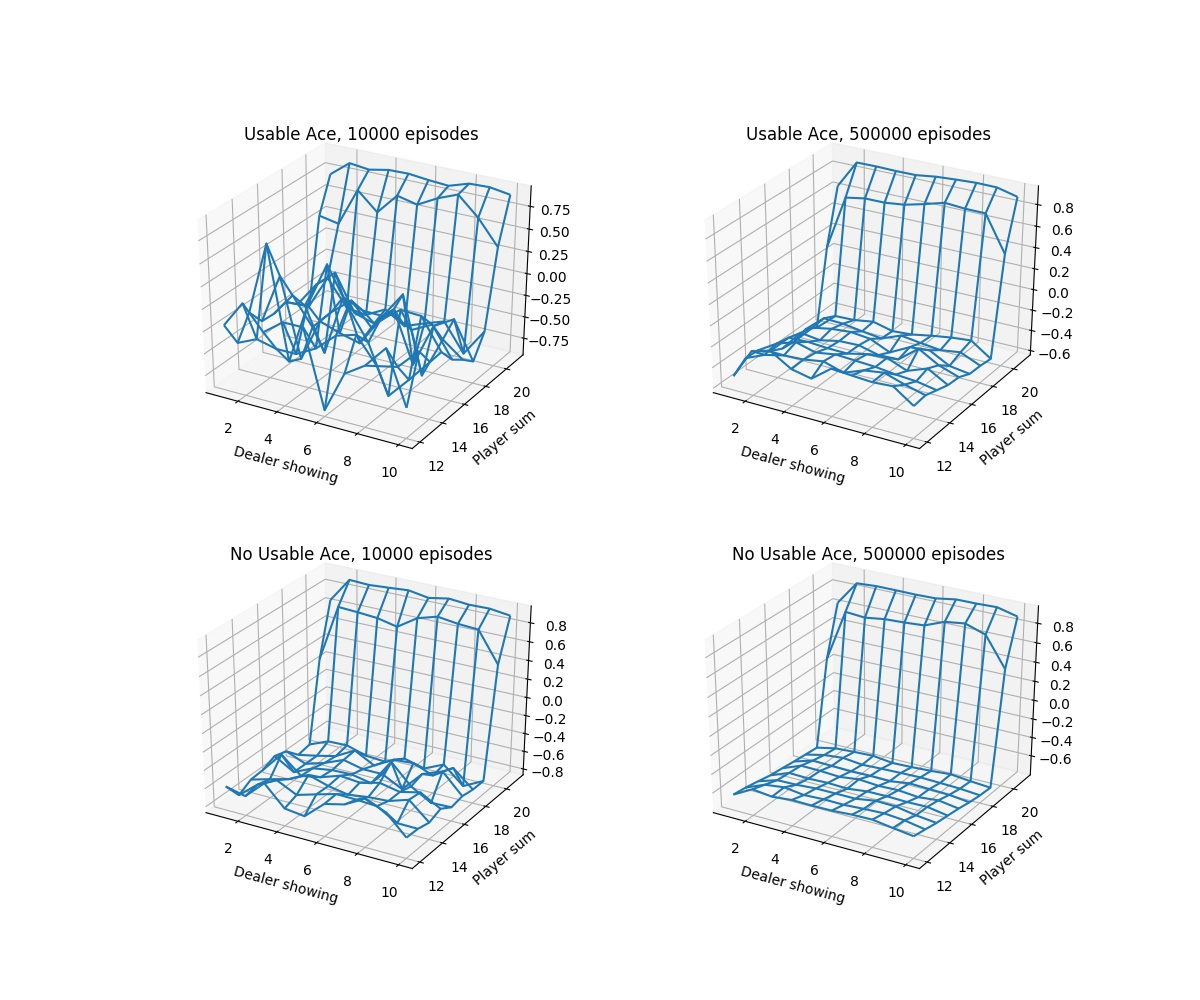
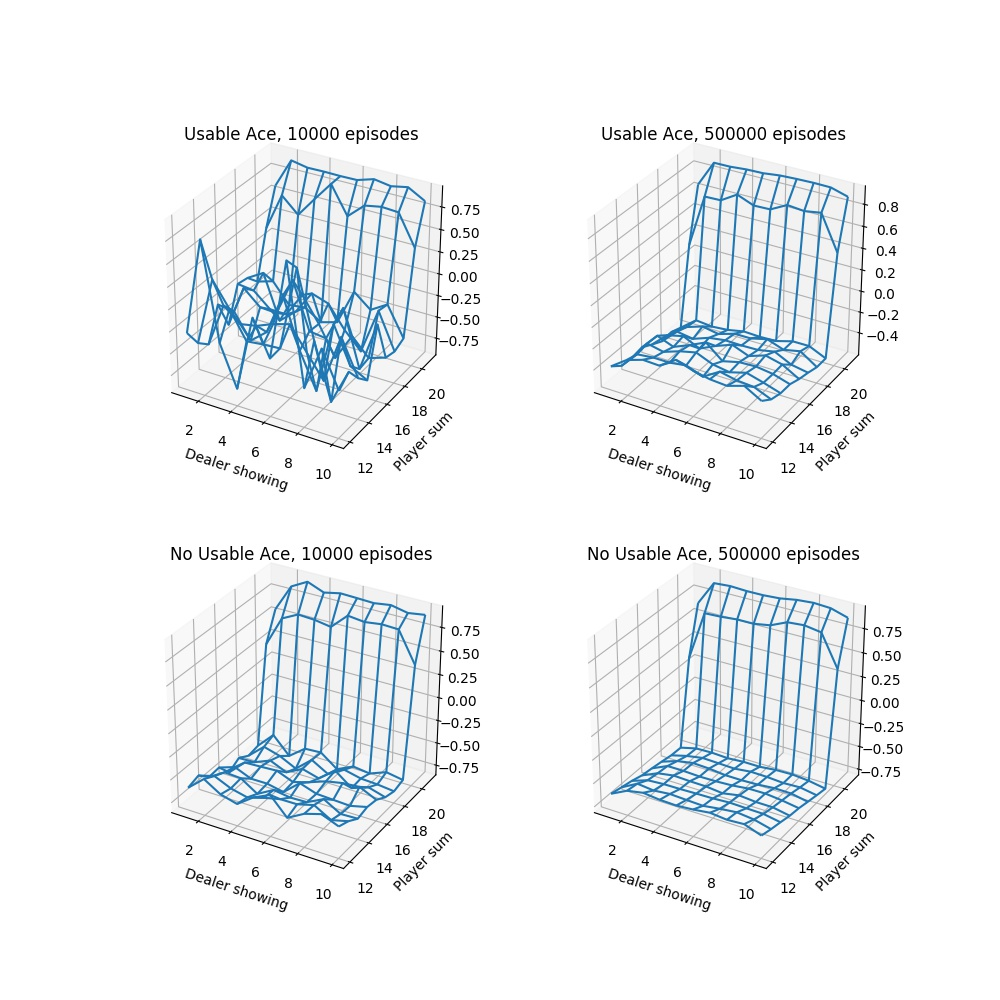
second commit

diff --git a/Chapter5/Figure5-2.py b/Chapter5/Figure5-2.py
@@ -3,6 +3,7 @@
 import numpy as np
 import matplotlib.pyplot as plt
 from mpl_toolkits.mplot3d import Axes3D
+import seaborn as sns
 
 class Blackjack(object):
     def __init__(self):
@@ -15,7 +16,7 @@ class Blackjack(object):
         self.policy_player[20:] = self.action_stop
         self.policy_dealer[17:] = self.action_stop
 
-    def target_policy_player(self, sum_player):
+    def target_policy_player(self, sum_player, usable_ace, dealer_card):
         return self.policy_player[sum_player]
 
     def behavior_policy_player(self):
@@ -59,7 +60,7 @@ class Blackjack(object):
         state = [sum_player, usable_ace_player, card1_dealer]  # initialize the state of game
         return state, card2_dealer
 
-    def generate_episode(self, initial_state=None, initial_action=None):
+    def generate_episode(self, policy_player, initial_state=None, initial_action=None):
         sum_dealer = 0  # sum of dealer's card
         trajectory_player = []  # the player's trajectory
         usable_ace_dealer = False  #type: bool #whether dealer count ace as 11 or not
@@ -89,7 +90,8 @@ class Blackjack(object):
                 action = initial_action
                 initial_action = None
             else:
-                action = self.policy_player[sum_player]   #get an action base on current sum of player's card
+                action = policy_player(sum_player, usable_ace_player, card1_dealer)
+                #get an action base on current sum of player's card
             trajectory_player.append([(sum_player, usable_ace_player, card1_dealer), action])
 
             if action == self.action_stop:
@@ -134,44 +136,61 @@ class Blackjack(object):
         else:
             return state, -1, trajectory_player
 
-    def first_visit_MC(self, episodes=10000):
-        state_usable_ace = np.zeros((10, 10))
-        state_usable_ace_count = np.ones(state_usable_ace.shape)
-        state_no_usable_ace = np.zeros((10, 10))
-        state_no_usable_ace_count = np.ones(state_no_usable_ace.shape)
+    def exploring_start_MC(self, episodes=10000):
+        state_action_value = np.zeros((10, 2, 10, 2))   # (playerSum, usable, dealerCard, action)
+        state_action_pair_count = np.ones(state_action_value.shape)
+
+        def greedy_policy(sum_player, usable_ace, dealer_card):
+            sum_player -= 12
+            usable_ace = int(usable_ace)
+            dealer_card -= 1
+            values = state_action_value[sum_player, usable_ace, dealer_card, :] /\
+                    state_action_pair_count[sum_player, usable_ace, dealer_card]
+            return np.random.choice([act for act, value in enumerate(values) if value == np.max(values)])
 
         for ite in np.arange(episodes):
-            _, reward, trajectory = self.generate_episode()
-            for (sum_player, usable_ace, dealer_showing), _ in trajectory:
+            #randomly select initialized state and action for each episode
+            initial_state = [np.random.choice(range(12, 22)), bool(np.random.choice([0, 1])),
+                             np.random.choice(range(1, 11))]
+            initial_action = np.random.choice([self.action_hit, self.action_stop])
+            policy_player = greedy_policy if ite else self.target_policy_player
+            _, reward, trajectory = self.generate_episode(policy_player, initial_state, initial_action)
+            for (sum_player, usable_ace, dealer_showing), action in trajectory:
                 sum_player -= 12
+                usable_ace = int(usable_ace)
                 dealer_showing -= 1
-                if usable_ace:
-                    state_usable_ace[sum_player, dealer_showing] += reward
-                    state_usable_ace_count[sum_player, dealer_showing] += 1
-                else:
-                    state_no_usable_ace[sum_player, dealer_showing] += reward
-                    state_no_usable_ace_count[sum_player, dealer_showing] += 1
-        return state_usable_ace/state_usable_ace_count, state_no_usable_ace/state_no_usable_ace_count
+                #update the values and pair counts
+                state_action_value[sum_player, usable_ace, dealer_showing, action] += reward
+                state_action_pair_count[sum_player, usable_ace, dealer_showing, action] += 1
+        return state_action_value/state_action_pair_count
 
 
 def draw_image(states_mat, lables):
 
-    print("Starting drawing......")
     x_size, y_size = states_mat[0].shape
     x_axis = np.arange(1, x_size + 1)
     y_axis = np.arange(12, y_size + 12)
     x_axis, y_axis = np.meshgrid(x_axis, y_axis)
     nums = np.arange(len(lables))
 
-    fig = plt.figure(figsize=(10, 10))
+    print("Starting drawing......")
+    fig = plt.figure(figsize=(14, 10))
     for state, lable, num in zip(states_mat, lables, nums):
-        ax = fig.add_subplot(221+num, projection='3d')
-        ax.plot_wireframe(X=x_axis, Y=y_axis, Z=state)
-        plt.xlabel("Dealer showing")
-        plt.ylabel("Player sum")
-        plt.title(lable)
+        if num % 2 == 0:
+            axis = fig.add_subplot(221+num)
+            sns.heatmap(np.flipud(state), cmap="GnBu", ax=axis, xticklabels=np.arange(1, 11),
+                        yticklabels=np.arange(21, 11, -1))
+            plt.xlabel("Dealer showing")
+            plt.ylabel("Player sum")
+            plt.title(lable)
+        else:
+            axis = fig.add_subplot(221+num, projection='3d')
+            axis.plot_wireframe(X=x_axis, Y=y_axis, Z=state)
+            plt.xlabel("Dealer showing")
+            plt.ylabel("Player sum")
+            plt.title(lable)
 
-    plt.savefig("./images/Figure5-1.jpg", bbox="tight")
+    plt.savefig("./images/Figure5-2.jpg", bbox="tight")
     plt.close()
     print("Completed !!! You can check it in the 'images' directory.")
 
@@ -179,14 +198,21 @@ def draw_image(states_mat, lables):
 if __name__ == "__main__":
     blackjack_game = Blackjack()
     print("The Blackjack Game is starting......")
-    first_usable_ace, first_no_usable_ace = blackjack_game.first_visit_MC(episodes=10000)
-    second_usable_ace, second_no_usable_ace = blackjack_game.first_visit_MC(episodes=500000)
+    state_action_value = blackjack_game.exploring_start_MC(episodes=500000)
     print("Game Over !!!\n")
 
-    states = [first_usable_ace, second_usable_ace,
-              first_no_usable_ace, second_no_usable_ace]
-    lables = ["Usable Ace, 10000 episodes", "Usable Ace, 500000 episodes",
-              "No Usable Ace, 10000 episodes", "No Usable Ace, 500000 episodes"]
+    #to get the max state-action value
+    state_action_value_no_usable = np.max(state_action_value[:, 0, :, :], axis=2)
+    state_action_value_usable = np.max(state_action_value[:, 1, :, :], axis=2)
+    #to get the optimal policy
+    policy_no_usable = np.argmax(state_action_value[:, 0, :, :], axis=2)
+    policy_usable = np.argmax(state_action_value[:, 1, :, :], axis=2)
+
+    states = [policy_usable, state_action_value_usable,
+              policy_no_usable, state_action_value_no_usable]
+    lables = ["Usable Ace, Optimal policy", "Usable Ace, Optimal state-action value",
+              "No Usable Ace, Optimal policy", "No Usable Ace, Optimal state-action value"]
+
     draw_image(states, lables)
 
 

diff --git a/Chapter5/Figure5-3.py b/Chapter5/Figure5-3.py
@@ -3,6 +3,7 @@
 import numpy as np
 import matplotlib.pyplot as plt
 from mpl_toolkits.mplot3d import Axes3D
+import seaborn as sns
 
 class Blackjack(object):
     def __init__(self):
@@ -15,10 +16,10 @@ class Blackjack(object):
         self.policy_player[20:] = self.action_stop
         self.policy_dealer[17:] = self.action_stop
 
-    def target_policy_player(self, sum_player):
+    def target_policy_player(self, sum_player, usable_ace, dealer_card):
         return self.policy_player[sum_player]
 
-    def behavior_policy_player(self):
+    def behavior_policy_player(self, sum_player, usable_ace, dealer_card):
         rand_num = np.random.binomial(1, 0.5)
         if rand_num:
             return self.action_hit
@@ -59,7 +60,8 @@ class Blackjack(object):
         state = [sum_player, usable_ace_player, card1_dealer]  # initialize the state of game
         return state, card2_dealer
 
-    def generate_episode(self, initial_state=None, initial_action=None):
+    def generate_episode(self, policy_player, initial_state=None, initial_action=None):
+        #@policy_player: type:function
         sum_dealer = 0  # sum of dealer's card
         trajectory_player = []  # the player's trajectory
         usable_ace_dealer = False  #type: bool #whether dealer count ace as 11 or not
@@ -89,7 +91,8 @@ class Blackjack(object):
                 action = initial_action
                 initial_action = None
             else:
-                action = self.policy_player[sum_player]   #get an action base on current sum of player's card
+                action = policy_player(sum_player, usable_ace_player, card1_dealer)
+                #get an action base on current sum of player's card
             trajectory_player.append([(sum_player, usable_ace_player, card1_dealer), action])
 
             if action == self.action_stop:
@@ -134,60 +137,72 @@ class Blackjack(object):
         else:
             return state, -1, trajectory_player
 
-    def first_visit_MC(self, episodes=10000):
-        state_usable_ace = np.zeros((10, 10))
-        state_usable_ace_count = np.ones(state_usable_ace.shape)
-        state_no_usable_ace = np.zeros((10, 10))
-        state_no_usable_ace_count = np.ones(state_no_usable_ace.shape)
+    def off_policy_MC(self, episodes=10000):
+        sum_player = 13
+        usable_ace = True
+        card1 = 2
+
+        rhos = []
+        rewards = []
+        initial_state = [sum_player, usable_ace, card1]
 
         for ite in np.arange(episodes):
-            _, reward, trajectory = self.generate_episode()
-            for (sum_player, usable_ace, dealer_showing), _ in trajectory:
-                sum_player -= 12
-                dealer_showing -= 1
-                if usable_ace:
-                    state_usable_ace[sum_player, dealer_showing] += reward
-                    state_usable_ace_count[sum_player, dealer_showing] += 1
+            numerator = 1   #the numerator of importance-sampling ratio
+            denominator = 1   #the denominator of importance-sampling ratio
+
+            _, reward, trajectory = self.generate_episode(self.behavior_policy_player, initial_state)
+            for (sum_player, usable_ace, dealer_showing), action in trajectory:
+                if action == self.target_policy_player(sum_player, usable_ace, dealer_showing):
+                    denominator *= 0.5
                 else:
-                    state_no_usable_ace[sum_player, dealer_showing] += reward
-                    state_no_usable_ace_count[sum_player, dealer_showing] += 1
-        return state_usable_ace/state_usable_ace_count, state_no_usable_ace/state_no_usable_ace_count
+                    numerator = 0
+                    break
+            rho = numerator / denominator
+            rhos.append(rho)
+            rewards.append(reward)
 
+        rhos = np.asarray(rhos)
+        rewards = np.asarray(rewards)
+        weighted_rewards = rhos * rewards
+        rhos = np.add.accumulate(rhos)   #to accumulate the importance-sampling ratio
+        weighted_returns = np.add.accumulate(weighted_rewards)   #to accumulate the reward
 
-def draw_image(states_mat, lables):
+        ordinary_importance_sampling = weighted_returns / np.arange(1, episodes+1)
+        weighted_importance_sampling = weighted_returns / (rhos+1e-7)   #to avoid dividing zero
 
-    print("Starting drawing......")
-    x_size, y_size = states_mat[0].shape
-    x_axis = np.arange(1, x_size + 1)
-    y_axis = np.arange(12, y_size + 12)
-    x_axis, y_axis = np.meshgrid(x_axis, y_axis)
-    nums = np.arange(len(lables))
+        return ordinary_importance_sampling, weighted_importance_sampling
 
-    fig = plt.figure(figsize=(10, 10))
-    for state, lable, num in zip(states_mat, lables, nums):
-        ax = fig.add_subplot(221+num, projection='3d')
-        ax.plot_wireframe(X=x_axis, Y=y_axis, Z=state)
-        plt.xlabel("Dealer showing")
-        plt.ylabel("Player sum")
-        plt.title(lable)
-
-    plt.savefig("./images/Figure5-1.jpg", bbox="tight")
-    plt.close()
-    print("Completed !!! You can check it in the 'images' directory.")
 
 
 if __name__ == "__main__":
+    true_value = -0.27726
+    iteration = 10000
+    runs = 100
+    error_ordinary_sampling = np.zeros(iteration)
+    error_weighted_sampling = np.zeros(iteration)
+
     blackjack_game = Blackjack()
     print("The Blackjack Game is starting......")
-    first_usable_ace, first_no_usable_ace = blackjack_game.first_visit_MC(episodes=10000)
-    second_usable_ace, second_no_usable_ace = blackjack_game.first_visit_MC(episodes=500000)
+    for iters in np.arange(runs):
+        ordinary_sampling, weighted_sampling = blackjack_game.off_policy_MC(episodes=iteration)
+        error_ordinary_sampling += np.power(ordinary_sampling-true_value, 2)
+        error_weighted_sampling += np.power(weighted_sampling-true_value, 2)
     print("Game Over !!!\n")
+    error_ordinary_sampling /= runs
+    error_weighted_sampling /= runs
 
-    states = [first_usable_ace, second_usable_ace,
-              first_no_usable_ace, second_no_usable_ace]
-    lables = ["Usable Ace, 10000 episodes", "Usable Ace, 500000 episodes",
-              "No Usable Ace, 10000 episodes", "No Usable Ace, 500000 episodes"]
-    draw_image(states, lables)
+    print("Starting drawing......")
+    plt.plot(np.arange(1, iteration+1), error_ordinary_sampling, label="Ordinary importance sampling")
+    plt.plot(np.arange(1, iteration+1), error_weighted_sampling, label="Weighted importance sampling")
+    plt.xlabel("Episodes (log scale)")
+    plt.ylabel("Mean Square Error")
+    plt.xscale("log")
+    plt.legend()
+    plt.savefig("./images/Figure5-3.jpg")
+    plt.show()
+
+    print("Completed !!! You can check it in the 'images' directory.")
+    plt.close()
 
 
 

diff --git a/Chapter5/Figure5-4.py b/Chapter5/Figure5-4.py
@@ -1,0 +1,59 @@
+# -*- coding:utf-8 -*-
+
+import numpy as np
+import matplotlib.pyplot as plt
+
+class Infinite_Variance(object):
+    def __init__(self, left=1, right=0):
+        self.left = left
+        self.right = right
+    
+    def target_policy(self):
+        return self.left
+    
+    def behavior_policy(self):
+        return np.random.binomial(1, 0.5)
+    
+    def game_start(self):
+        trajectory = []
+        while True:
+            action = self.behavior_policy()
+            trajectory.append(action)
+            if action == self.right:
+                return 0, trajectory
+            if np.random.binomial(1, 0.9) == self.right:
+                return 1, trajectory
+
+    def off_policy_MC(self, episodes=1000000):
+        rewards = []
+        for iteration in np.arange(episodes):
+            reward, trajectory = self.game_start()
+            if trajectory[-1] == self.right:
+                rho = 0
+            else:
+                rho = 1/np.power(0.5, len(trajectory))
+            rewards.append(rho*reward)
+        returns = np.add.accumulate(np.asarray(rewards))
+
+        return returns/np.arange(1, episodes+1)
+
+if __name__ == "__main__":
+    iterations = 10   # the number of iteration
+    example = Infinite_Variance()
+
+    print("Starting......")
+    for iteration in np.arange(iterations):
+        estimation = example.off_policy_MC()
+        plt.plot(np.arange(1, len(estimation)+1), estimation)
+
+    plt.xlabel("Episodes (log scale)")
+    plt.ylabel("MC Estimate of $v_{\pi}(s)$ with Ordinary Importance Sampling")
+    plt.xscale("log")
+    plt.savefig("./images/Figure5-4.png")
+    print("Completed !!! You can check it in the 'images' directory.")
+
+    plt.show()
+    plt.close()
+
+
+
